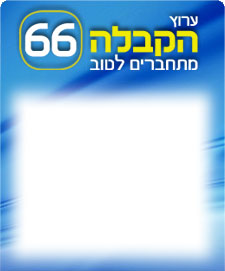
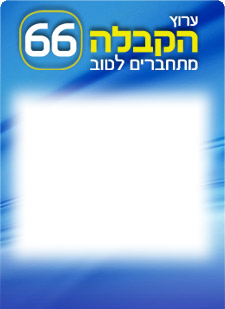
better kab.tv

diff --git a/public/stylesheets/hebmain/widgets.css b/public/stylesheets/hebmain/widgets.css
@@ -920,7 +920,7 @@ a.highslide-full-expand {
   width:222px;
 }
 #home-kabtv #kabtv-top{
-  height:271px;
+  height:309px;
   background:#315bbc url(/images/hebmain/kabtv/home-top.jpg) no-repeat 0 0;
   position:relative;
 }
@@ -939,7 +939,7 @@ a.highslide-full-expand {
 #home-kabtv .hdr{
   color:#00EAFF;
   font-weight:bold;
-  text-align:center;
+  text-align:right;
   padding:6px 50px 0 0;
 }
 #home-kabtv .item{

diff --git a/public/javascripts/jq-helpers.js b/public/javascripts/jq-helpers.js
@@ -726,7 +726,7 @@ $(function() {
 //***************************************
 var sketchTimer;
 function startSketches(){
-    sketchTimer = setInterval(reloadSketches, 10000)
+    sketchTimer = setInterval(reloadSketches, 30000)
 }
 function stopSketches(){
     clearTimeout(sketchTimer)

diff --git a/app/sites/hebmain/widgets/kabtv.rb b/app/sites/hebmain/widgets/kabtv.rb
@@ -20,28 +20,30 @@ class Hebmain::Widgets::Kabtv < WidgetManager::Base
         div(:id => 'home-kabtv') {
             cms_action
             div(:id => 'kabtv-top'){
-                height = 176
+                height = 214
                 width = 199
                 url = Language.get_url(@language)
                 javascript {
                     rawtext <<-TV
                     if (jQuery.browser.ie) {
-                        document.write('<object classid="clsid:6BF52A52-394A-11D3-B153-00C04F79FAA6" style="background-color:#000000" id="player" name="player" type="application/x-oleobject" width="#{width}" height="#{height}" standby="Loading Windows Media Player components..."><param name="URL" value="#{url}" /><param name="AutoStart" value="1" /><param name="AutoPlay" value="1" /><param name="volume" value="50" /><param name="uiMode" value="mini" /><param name="animationAtStart" value="1" /><param name="showDisplay" value="1" /><param name="transparentAtStart" value="0" /><param name="ShowControls" value="1" /><param name="ShowStatusBar" value="0" /><param name="ClickToPlay" value="0" /><param name="bgcolor" value="#000000" /><param name="windowlessVideo" value="1" /><param name="balance" value="0" /></object>');
+                        document.write('<object classid="clsid:6BF52A52-394A-11D3-B153-00C04F79FAA6" style="background-color:#000000" id="player" name="player" type="application/x-oleobject" width="#{width}" height="#{height}" standby="Loading Windows Media Player components..."><param name="URL" value="#{url}" /><param name="AutoStart" value="1" /><param name="AutoPlay" value="1" /><param name="mute" value="1" /><param name="volume" value="50" /><param name="uiMode" value="mini" /><param name="animationAtStart" value="1" /><param name="showDisplay" value="1" /><param name="transparentAtStart" value="0" /><param name="ShowControls" value="1" /><param name="ShowStatusBar" value="0" /><param name="ClickToPlay" value="0" /><param name="bgcolor" value="#000000" /><param name="windowlessVideo" value="1" /><param name="balance" value="0" /></object>');
                     } else if (jQuery.browser.firefox) {
-                        document.write('<embed id="player" name="player" src="#{url}" type="application/x-mplayer2" pluginspage="http://activex.microsoft.com/activex/controls/mplayer/en/nsmp2inf.cab#Version=6,4,7,1112" autostart="true" stretchToFit="false" autosize="false" uimode="full" width="#{width}" height="#{height}" />');
+                        document.write('<embed id="player" name="player" src="#{url}" type="application/x-mplayer2" pluginspage="http://activex.microsoft.com/activex/controls/mplayer/en/nsmp2inf.cab#Version=6,4,7,1112" autostart="true" stretchToFit="false" autosize="false" uimode="full" width="#{width}" height="#{height}"/>');
                     } else {
-                        document.write('<object classid="clsid:6BF52A52-394A-11D3-B153-00C04F79FAA6" style="background-color:#000000" id="player" name="player" type="application/x-oleobject" width="#{width}" height="#{height}" standby="Loading Windows Media Player components..."><param name="URL" value="#{url}" /><param name="AutoStart" value="1" /><param name="AutoPlay" value="1" /><param name="volume" value="50" /><param name="uiMode" value="mini" /><param name="animationAtStart" value="1" /><param name="showDisplay" value="1" /><param name="transparentAtStart" value="0" /><param name="ShowControls" value="1" /><param name="ShowStatusBar" value="0" /><param name="ClickToPlay" value="0" /><param name="bgcolor" value="#000000" /><param name="windowlessVideo" value="1" /><param name="balance" value="0" />');
-                        document.write('<embed id="player" name="player" src="#{url}" type="application/x-mplayer2" pluginspage="http://activex.microsoft.com/activex/controls/mplayer/en/nsmp2inf.cab#Version=6,4,7,1112" autostart="true" stretchToFit="false" uimode="full" width="#{width}" height="#{height}" />');
+                        document.write('<object classid="clsid:6BF52A52-394A-11D3-B153-00C04F79FAA6" style="background-color:#000000" id="player" name="player" type="application/x-oleobject" width="#{width}" height="#{height}" standby="Loading Windows Media Player components..."><param name="URL" value="#{url}" /><param name="AutoStart" value="1" /><param name="AutoPlay" value="1" /><param name="mute" value="1" /><param name="volume" value="50" /><param name="uiMode" value="mini" /><param name="animationAtStart" value="1" /><param name="showDisplay" value="1" /><param name="transparentAtStart" value="0" /><param name="ShowControls" value="1" /><param name="ShowStatusBar" value="0" /><param name="ClickToPlay" value="0" /><param name="bgcolor" value="#000000" /><param name="windowlessVideo" value="1" /><param name="balance" value="0" />');
+                        document.write('<embed id="player" name="player" src="#{url}" type="application/x-mplayer2" pluginspage="http://activex.microsoft.com/activex/controls/mplayer/en/nsmp2inf.cab#Version=6,4,7,1112" autostart="true" stretchToFit="false" uimode="full" width="#{width}" height="#{height}" mute="1" />');
                         document.write('</object>');
                     }
                     TV
                 }
             }
             div(:id => 'kabtv-mid'){
-#                display_current_program
             }
+            # display_current_program
             javascript {
+                rawtext "function reloadSchedule(){"
                 rawtext "$('#kabtv-mid').load('#{@web_node_url}',{view_mode:'current_program','options[widget]':'kabtv','options[widget_node_id]':#{tree_node.id}})"
+                rawtext "}; reloadSchedule();setInterval(reloadSchedule, 300000)"
             }
             div(:id => 'kabtv-bot'){
                 a(:href => get_target) {
